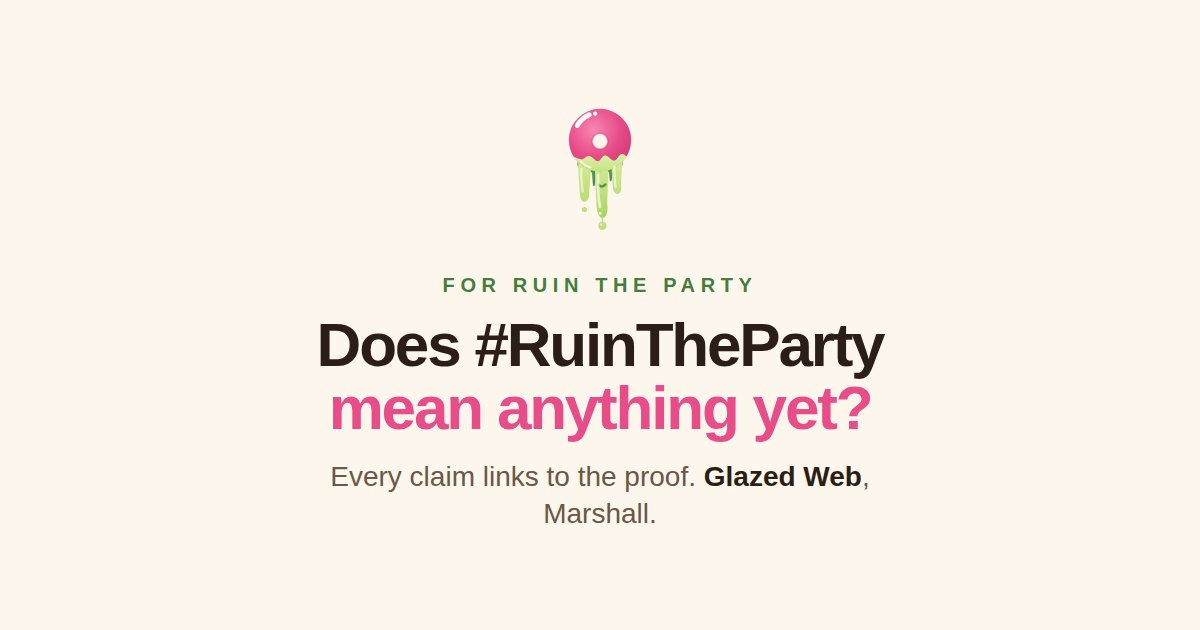
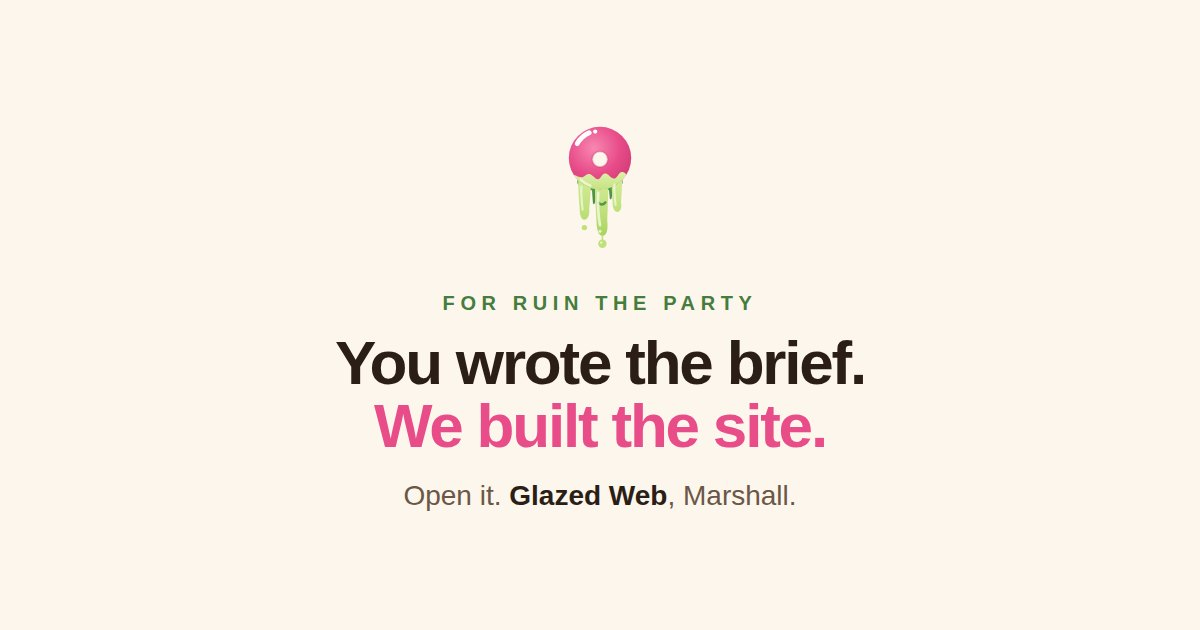
The letter is a reply to the brief, not a pitch
Kevin, 2026-10-01: "we have to sell him less in a way bc he came to us."
The first draft used the cold-prospect structure: a question hook whose
answer is no, an audit section, a struck market anchor beside the price,
and the three questions to ask any vendor. All of that came out.

What a client who sent a brief needs is here and nothing else: what we
checked before building (the domain, the hashtag, who already does this
work, the numbers, each linked, each stated as useful), what is in the
site, how it is owned, the store and the one decision it waits on, the
price with what it buys, and the one action. The h1 is now "You wrote
the brief. We built the site. Open it." and the share card says the
same. The rule is recorded in glazedweb's glaze/proposal.md.

Rendered again at 1280, 390 and 320: no overflow, no errors. Card 32KB.

Claude-Session: https://claude.ai/code/session_01T5x7rB4KF7dzEFYqyNu4PS

Changed region(s): [[0.2467, 0.4222, 0.74, 0.8444], [0.4625, 0.1508, 0.5242, 0.3921]]

diff --git a/public/pitch/ruintheparty/index.html b/public/pitch/ruintheparty/index.html
@@ -3,47 +3,52 @@
 <meta charset="UTF-8">
 <meta name="viewport" content="width=device-width,initial-scale=1">
 <meta name="robots" content="noindex,nofollow">
-<title>Glazed Web &times; Ruin the Party &middot; Proposal</title>
-<meta name="description" content="A website proposal for Ruin the Party. Every claim links to the evidence, and the site is already built.">
+<title>Glazed Web &times; Ruin the Party &middot; The site, built</title>
+<meta name="description" content="Ruin the Party as a working website: what is in it, how it runs, and what it costs to finish.">
 <meta property="og:type" content="website">
 <meta property="og:site_name" content="Glazed Web">
 <meta property="og:url" content="https://ruintheparty.glazedweb.com/">
-<meta property="og:title" content="Does #RuinTheParty mean anything yet?">
-<meta property="og:description" content="A website proposal for Ruin the Party, where every claim links to the proof.">
+<meta property="og:title" content="You wrote the brief. We built the site.">
+<meta property="og:description" content="Ruin the Party as a working website: what is in it, how it runs, and what it costs to finish.">
 <meta property="og:image" content="https://ruintheparty.glazedweb.com/pitch/ruintheparty/og.jpg">
 <meta property="og:image:width" content="1200">
 <meta property="og:image:height" content="630">
-<meta property="og:image:alt" content="Does #RuinTheParty mean anything yet? A proposal from Glazed Web.">
+<meta property="og:image:alt" content="You wrote the brief. We built the site. A letter from Glazed Web.">
 <meta name="twitter:card" content="summary_large_image">
-<meta name="twitter:title" content="Does #RuinTheParty mean anything yet?">
-<meta name="twitter:description" content="A website proposal for Ruin the Party, where every claim links to the proof.">
+<meta name="twitter:title" content="You wrote the brief. We built the site.">
+<meta name="twitter:description" content="Ruin the Party as a working website: what is in it, how it runs, and what it costs to finish.">
 <meta name="twitter:image" content="https://ruintheparty.glazedweb.com/pitch/ruintheparty/og.jpg">
 <meta name="theme-color" content="#FDF6EC">
 <!--
+  THE REGISTER OF THIS LETTER. He came to us. Kevin, 2026-10-01: "we have to
+  sell him less in a way bc he came to us." So this is a reply to a brief,
+  not a pitch: no question hook whose answer is no, no audit of a site he
+  does not have, no market anchor struck through beside the price, no
+  "three questions to ask any vendor". What stays is what he needs to
+  decide: what we checked, what is built, how it is owned, what it costs,
+  and the one action. The rule is recorded in glaze/proposal.md.
+
   KEVIN, BEFORE SENDING. Three things this letter could not check from the
   desk it was written at, because that sandbox has no outbound web except a
   search index:
-    1. Open ruintheparty.com in a browser. The letter says only that the name
-       answers to DNS and does not describe what is there. If it is a real
-       page, finding one changes.
+    1. Open ruintheparty.com. The letter says only that the name answers
+       to DNS and does not describe what is there.
     2. Open tiktok.com/tag/ruintheparty. The view count (about 253,000) and
-       the nature of the videos came from TikTok's own tag page as a search
+       the nature of the videos came from TikTok's tag page as a search
        index surfaced it on October 1, 2026, not from the page itself.
-    3. The price. $4,500 and $150 is a recommendation against the Griffin
-       Claw and Dark Horse shape and the published $8,000 floor it anchors
-       to. Prices are yours (AGENTS.md). The same numbers sit in
-       lib/customOrders.js; change both in one commit.
-  Also: nobody has named the person behind Ruin the Party. The agreement row
-  has their name, title, entity and town as placeholders, and the letter is
-  addressed to the brand rather than to a person for that reason.
+    3. The price. $4,500 and $150 is a recommendation. Prices are yours
+       (AGENTS.md). The same numbers sit in lib/customOrders.js; change
+       both in one commit.
+  Nobody has named the person behind Ruin the Party, so the letter is
+  addressed to the brand and the agreement row carries placeholders.
 -->
 <!--
   Icons are declared with ABSOLUTE paths and they are not optional. "/" and
   "/demo" are rewrites on this host, so a relative icon path resolves against
   the rewritten route and misses. Undeclared, the page falls back to
-  /favicon.ico at the origin root, and a Glazed sales document goes out
-  wearing the client's own mark. SVG first, .ico second: Safari will not take
-  an SVG through rel=icon.
+  /favicon.ico at the origin root, and a Glazed document goes out wearing
+  the client's own mark. SVG first, .ico second: Safari will not take an
+  SVG through rel=icon.
 -->
 <link rel="icon" href="/pitch/ruintheparty/favicon.svg" type="image/svg+xml">
 <link rel="icon" href="/pitch/ruintheparty/favicon.ico" sizes="32x32">
@@ -319,9 +324,8 @@ footer a{color:var(--green)}
   <span class="bstack"><span class="bw">glazed<span>web</span></span><span class="forname">for Ruin the Party</span></span>
  </a>
  <!-- One action in the bar (glaze/launch-page.md): the build page. The
-      agreement is a plain link, never a second pill. Both destinations ride
-      the hero row too, because the nav hides below 720px on a letter that
-      asks to be read on a phone. -->
+      agreement is a plain link, never a second pill. Both ride the hero
+      row too, because the nav hides below 720px. -->
  <nav>
   <a href="#cost">Cost</a><a href="#next">Next</a><a href="/demo">The site</a><a href="https://www.glazedweb.com/agreement/ruintheparty" target="_blank" rel="noopener">The agreement</a><a class="navcta" href="https://www.glazedweb.com/build/ruintheparty" target="_blank" rel="noopener">Launch &#8599;</a>
  </nav>
@@ -330,24 +334,24 @@ footer a{color:var(--green)}
 <main>
 <div class="hero" id="top"><div class="wrap">
  <svg class="gmark" viewBox="0 0 200 250" overflow="visible" aria-hidden="true"><g class="goo"><g fill="url(#gwDark)"><ellipse cx="100" cy="110" rx="38" ry="15"></ellipse><path class="wobB" d="M 86 100 C 86 116, 87 130, 88 142 C 88 148, 91 149, 92 142 C 93 130, 92 114, 92 100 Z"></path><path d="M 114 100 C 114 112, 115 124, 116 134 C 116 140, 119 141, 120 134 C 121 124, 120 110, 120 100 Z"></path></g><g fill="url(#gwLight)"><path class="wob1" d="M 64 100 C 63 120, 65 138, 66 152 C 66 164, 68 172, 74 173 C 80 172, 83 165, 82 154 C 84 136, 85 116, 86 100 Z"></path><path class="wob2" d="M 92 100 C 91 128, 93 152, 94 172 C 94 188, 97 199, 104 200 C 111 199, 114 190, 112 174 C 113 150, 114 124, 114 100 Z"></path><path class="wob3" d="M 120 100 C 119 116, 120 130, 121 142 C 121 152, 123 159, 129 160 C 134 159, 137 153, 135 144 C 136 130, 137 114, 137 100 Z"></path></g></g><path class="string" d="M 104 199 L 104 209" stroke="#BFE07A" stroke-width="2.5" stroke-linecap="round" fill="none"></path><g class="droplet"><circle cx="104" cy="213" r="7" fill="#BFE07A"></circle><circle cx="102" cy="211" r="2" fill="#F1F8DC" opacity="0.9"></circle></g><circle class="droplet2" cx="74" cy="186" r="4.5" fill="#BFE07A"></circle><circle cx="100" cy="70" r="52" fill="url(#gwPink)"></circle><path d="M 56 98 A 52 52 0 0 0 144 98 C 142 94, 138 92, 134 94 C 130 97, 129 102, 125 104 C 119 106, 116 98, 110 96 C 104 94, 103 102, 98 105 C 93 107, 90 100, 84 97 C 78 95, 76 100, 71 102 C 66 103, 62 100, 56 98 Z" fill="url(#gwCreep)"></path><path d="M 68 106 A 42 42 0 0 0 84 116" fill="none" stroke="#F1F8DC" stroke-width="4" stroke-linecap="round" opacity="0.85"></path><path d="M 97 144 Q 103 151 109 144" fill="none" stroke="#55974A" stroke-width="4" stroke-linecap="round"></path><g stroke="#F1F8DC" fill="none" stroke-linecap="round"><path d="M 97 128 C 96 148, 97 166, 100 182" stroke-width="4.5" opacity="0.85"></path><path d="M 69 118 C 68 132, 70 146, 71 156" stroke-width="3.5" opacity="0.8"></path><path d="M 124 114 C 123 124, 125 138, 126 148" stroke-width="3.5" opacity="0.8"></path></g><circle cx="100" cy="192" r="2.5" fill="#F1F8DC" opacity="0.9"></circle><circle cx="100" cy="72" r="13" fill="#FDF6EC"></circle><circle cx="100" cy="72" r="13" fill="none" stroke="#C22F6B" stroke-width="3" opacity="0.3"></circle><path d="M 62 46 A 44 44 0 0 1 82 28" fill="none" stroke="#FFFFFF" stroke-width="8" stroke-linecap="round"></path><circle cx="92" cy="26" r="3.5" fill="#FFFFFF"></circle></svg>
- <div class="k">Website proposal &middot; Ruin the Party</div>
- <h1>Does #RuinTheParty<br>mean anything yet?<br><em>Not yet.</em></h1>
- <p class="sub">You sent us a brief. We read it twice, built the site it describes, and then wrote down only what we could prove about the world that site is going into. Every claim below carries the link it came from, so you can check us.</p>
+ <div class="k">Ruin the Party &middot; the site, built</div>
+ <h1>You wrote the brief.<br>We built the site.<br><em>Open it.</em></h1>
+ <p class="sub">Your brief already knew what it wanted, so rather than describe a website back to you we built the one it describes: nine pages, the store, your mark, your words where they were already right. This letter is what we checked first, what is in it, how it is owned, and what it costs to finish and run.</p>
  <div class="forwho">
-  Prepared by <b>Kevin Hershock &middot; Glazed Web</b><br>
+  <b>Kevin Hershock &middot; Glazed Web</b><br>
   Marshall, Michigan &middot; October 2026<br>
-  <b>Every claim below links to the evidence.</b>
+  <b>Everything below is on the site already.</b>
  </div>
- <p class="herocta"><a href="/demo">See the site &#8599;</a><a class="ghost" href="https://www.glazedweb.com/build/ruintheparty" target="_blank" rel="noopener">Launch &#8599;</a><span>Built already, with your words in it: the phrase, the four moves, the eight situations, and the store. Open it on the phone in your pocket.</span></p>
+ <p class="herocta"><a href="/demo">See the site &#8599;</a><a class="ghost" href="https://www.glazedweb.com/build/ruintheparty" target="_blank" rel="noopener">Launch &#8599;</a><span>Open it on the phone in your pocket. Nothing in this letter is a mockup.</span></p>
 
  <div class="tldr">
   <div class="k">The short version</div>
   <ul>
-   <li><span class="n">01</span><span>The phrase is a decision, and today it lives in a brief. <b>Nowhere a seventeen-year-old can find it says what you mean by it.</b> The hashtag on TikTok is comedy about wrecking somebody's birthday.</span></li>
-   <li><span class="n">02</span><span>The people already doing this work are serious and institutional: student chapters on 500 campuses, a coaching program the CDC evaluated. <b>None of them is a phrase a kid would wear.</b> That is the gap, and it is yours.</span></li>
-   <li><span class="n">03</span><span>Your brief has one section that will carry the whole site, and you named it yourself: <b>Be the Guy.</b> We built it first. Eight situations, the words, the moves, and who to call.</span></li>
-   <li><span class="n">04</span><span>The store is built on <b>your own Stripe</b> and switched off until you price it. No platform bill, nobody taking a cut.</span></li>
-   <li><span class="n">05</span><span>The whole thing is live at <a class="cta" href="/demo">ruintheparty.glazedweb.com/demo</a>. Nothing in this letter is a mockup.</span></li>
+   <li><span class="n">01</span><span>The site is live at <a class="cta" href="/demo">ruintheparty.glazedweb.com/demo</a>, built from your brief and the logo you sent.</span></li>
+   <li><span class="n">02</span><span>You said <b>Be the Guy</b> could become the most important section. We agree, so it got built first and biggest: eight situations, the words, the moves, who to call.</span></li>
+   <li><span class="n">03</span><span>The store runs on <b>your own Stripe</b> and stays off until you price it. No platform bill, nobody taking a cut.</span></li>
+   <li><span class="n">04</span><span>Before building we checked the domain, the hashtag, and who is already doing this work. Section one, with the links.</span></li>
+   <li><span class="n">05</span><span><b>$4,500</b> to finish and launch it, <b>$150 a month</b> to run it, and you own all of it. Sections five and six.</span></li>
   </ul>
  </div>
 </div></div>
@@ -355,99 +359,68 @@ footer a{color:var(--green)}
 <section id="found" aria-labelledby="h-found"><div class="wrap">
  <div class="k">Section one</div>
  <div class="rule"></div>
- <h2 id="h-found">What we read.</h2>
+ <h2 id="h-found">What we checked first.</h2>
 
- <p>First, what this is not. It is not a critique of the idea. Your brief is the clearest one we have been sent: a phrase that is a decision rather than a slogan, a message aimed at the men who are not the problem, and three jobs for the website in the right order, educate, empower, spread. Most of what follows in section three is your words, because they were already right.</p>
-
- <p>What follows here is what the web does to that idea on day one. It was read out of the world on <strong>October 1, 2026</strong>, and anything we could not open ourselves is marked that way rather than dressed up.</p>
+ <p>Four things, read out of the world on <strong>October 1, 2026</strong>, each with the link so you can check us. Two of them we could not open from the desk this was written at, and they say so.</p>
 
  <div class="claim">
-  <h4>The name is held, and that is all we can say about it</h4>
-  <p>ruintheparty.com answers to DNS, so somebody registered it, which is the right first move. What the address shows a visitor today we could not open from the desk this was written at, so this letter does not describe it. Open it yourself and you will know in one tap whether there is a site there or a registrar's parking page. Either way, nothing at that address today says what Ruin the Party means.</p>
+  <h4>The name is held</h4>
+  <p>ruintheparty.com answers to DNS, so somebody registered it, which is the right first move. What the address shows today we could not open ourselves, so this letter does not describe it. When the site goes live, it goes there.</p>
   <a class="verify" href="https://ruintheparty.com/" target="_blank" rel="noopener">ruintheparty.com &#8599;</a>
  </div>
 
  <div class="claim">
-  <h4>The hashtag already has an audience, and it is laughing at something else</h4>
-  <p>TikTok's own tag page for <span class="mono">#ruintheparty</span> counts roughly <strong>253,000 views</strong>. The videos are comedy: somebody wrecking a birthday, a wedding, a kid's party. That is not a problem. It is the audience the phrase has to take over, and right now nothing on that page, and nothing anywhere else, tells those viewers what you mean by it. The site is what the first person who asks gets sent to.</p>
+  <h4>The hashtag already has an audience</h4>
+  <p>TikTok's tag page for <span class="mono">#ruintheparty</span> counts roughly <strong>253,000 views</strong>, and the videos are comedy: somebody wrecking a birthday or a wedding. Worth knowing, not a problem. It is the crowd the phrase gets to take over, and the site is what the first person who asks what it means gets sent to.</p>
   <a class="verify" href="https://www.tiktok.com/tag/ruintheparty" target="_blank" rel="noopener">The tag on TikTok &#8599;</a>
  </div>
 
  <div class="claim">
-  <h4>The field is full of institutions, not phrases</h4>
-  <p>It's On Us, started in 2014 out of the White House task force on campus sexual assault, has run more than 6,000 programs through student chapters on more than 500 campuses, and 440,000 people have signed its pledge. Coaching Boys Into Men gives a coach twelve fifteen-minute talks to have with his team across a season, and a three-year evaluation paid for by the CDC found the athletes who went through it were significantly more likely to step in. Green Dot taught a generation of colleges the three ways to intervene. Every one of them speaks in the voice of a university or a nonprofit, which is exactly what your brief says this must not sound like. None of them is on a hat.</p>
-  <p>So the site does not compete with them. It points at them, by name, on the pages for coaches and for parents, and it does the one thing they do not: give a nineteen-year-old a phrase he would say out loud.</p>
-  <a class="verify" href="https://itsonus.org/about/mission-impact/" target="_blank" rel="noopener">It's On Us, their numbers &#8599;</a>
+  <h4>Good people are already doing this work, and the site points at them</h4>
+  <p>It's On Us has student chapters on more than 500 campuses. Coaching Boys Into Men gives a coach twelve fifteen-minute talks to have with his team over a season, and a CDC-funded evaluation found the athletes who went through it were more likely to step in. Green Dot taught a generation of colleges the three ways to intervene. All of it speaks in the voice of a university or a nonprofit, which your brief says this must not. So the site does not compete with any of it. It names them on the pages for coaches and parents, and it does the one thing they do not: give a nineteen-year-old a phrase he would say out loud.</p>
+  <a class="verify" href="https://itsonus.org/about/mission-impact/" target="_blank" rel="noopener">It's On Us &#8599;</a>
   <a class="verify" href="https://coachescorner.org/" target="_blank" rel="noopener">Coaching Boys Into Men &#8599;</a>
   <a class="verify" href="https://alteristic.org/services/green-dot/" target="_blank" rel="noopener">Green Dot &#8599;</a>
  </div>
 
  <div class="claim">
-  <h4>The numbers, so the site never has to shout them</h4>
-  <p>RAINN's campus page, reporting the 2019 survey of American universities: <strong>13 percent</strong> of undergraduates experienced rape or sexual assault after enrolling. <strong>One in four</strong> undergraduate women and <strong>one in fourteen</strong> undergraduate men experienced nonconsensual sexual contact by force or while unable to consent. Those three figures appear on the site exactly once, with that link under them, and nowhere else. A site that shouts statistics at a nineteen-year-old is the corporate seminar your brief says not to build.</p>
+  <h4>The numbers, used once</h4>
+  <p>RAINN's campus page, from the 2019 survey of American universities: <strong>13 percent</strong> of undergraduates experienced rape or sexual assault after enrolling, <strong>one in four</strong> undergraduate women and <strong>one in fourteen</strong> undergraduate men. Those three figures are on the site exactly once, with that link under them, and nowhere else. Your brief said not to build a seminar, and a site that shouts statistics at a nineteen-year-old is one.</p>
   <a class="verify" href="https://rainn.org/facts-statistics-the-scope-of-the-problem/statistics-campus-sexual-violence/" target="_blank" rel="noopener">RAINN's campus statistics &#8599;</a>
  </div>
 
- <div class="claim">
-  <h4>Your brief had already written the two strongest pages</h4>
-  <p><span class="mono">"No" is a complete sentence. It doesn't matter when no is said.</span> That is a page, and it is on the site in letters the height of a phone screen, with the five moments under it exactly as you listed them. And <strong>Be the Guy</strong>, which you said could become the most important section on the site. You were right, so it got built first and biggest: eight situations a young man actually ends up in, what to say in each, what to do, when to hand it to a bouncer, a coach, an RA or the police, and what to do the next day.</p>
-  <a class="verify" href="/demo/know-the-line">Know the line &#8599;</a>
-  <a class="verify" href="/demo/be-the-guy">Be the guy &#8599;</a>
+ <div class="verdict">
+  <p><b>One decision we made that you can overrule.</b></p>
+  <p>Your brief says the merchandise should not feel like nonprofit merchandise, and it is right. We took that one step further: a shirt that says Ruin the Party only means something if the person who asks what it means can be sent somewhere that answers in thirty seconds, in words he would use. So the site is built as that answer, and the shop is built as the way the question gets asked. Every page a shirt could send somebody to answers in one screen.</p>
  </div>
-
- <div class="gap">
-  <p class="big">The real one is that a phrase cannot stand on a merch store.</p>
-  <p>Your brief says the merchandise should not feel like nonprofit merchandise,
-  and it is right. But a shirt that says Ruin the Party only means something if
-  the person who asks what it means can be sent somewhere that answers in
-  thirty seconds, in words he would use himself. That is the whole job of the
-  website. The shop is how the question gets asked. The site is the answer.
-  Build the store without the answer and you have a streetwear brand with a
-  hashtag. Build the answer without the store and you have a pamphlet.</p>
- </div>
-
- <p class="note">How this was done, and what was not done. The brief was read,
- the site was built from it, and the claims above were checked against the
- organizations' own pages and RAINN's on October 1, 2026, each with the link
- that proves it. Two of them, the domain and the TikTok tag, we could not open
- ourselves and say so where they appear. No speed test was run on anything of
- yours, because there is nothing of yours to run one on yet.</p>
 </div></section>
 
 <section id="matters" aria-labelledby="h-matters"><div class="wrap">
  <div class="k">Section two</div>
  <div class="rule"></div>
- <h2 id="h-matters">The part that matters most.</h2>
+ <h2 id="h-matters">How it is built, and what you own.</h2>
 
- <h3>Two jobs that pull against each other</h3>
- <p>The site has to be a store young men would actually buy from, and it has to be the reason the shirt means anything. Most movements end up with one of the two: a nonprofit site with a merch tab bolted on, or a storefront with an About page nobody reads. We built one site where the phrase does the heavy lifting in both places. The hashtag is the hero of every page and the chest of every shirt, and every page a shirt could send somebody to answers in one screen, in the voice of your brief rather than the voice of a training module.</p>
-
- <h3>You own it. All of it.</h3>
- <p>Written down, not implied. When the build fee is paid in full, these are yours: the design, the source code, every word on it, the accounts, the code repository, the hosting project, and every login to them. The domain stays registered in your name and transfers to any registrar you name, free, whenever you ask. After launch it is month to month, thirty days' notice, no penalty, and the site keeps working on the way out the door. The terms are one plain-English page published at <a href="https://www.glazedweb.com/agreement" target="_blank" rel="noopener">glazedweb.com/agreement</a>, the same page every client gets.</p>
- <p>Nothing underneath the site is rented. No store platform, no page builder, no form service, no plugin bill arriving in a year. <strong>If a feature can be written instead of rented, we write it.</strong> The one exception is Stripe, because somebody has to take the card: its fee is published, it is charged to your account, and it is the only line on any bill that is not ours.</p>
-
- <h3>Three questions worth asking any web vendor, including us</h3>
- <p><strong>1.</strong> If we stop paying you, what do we keep? <strong>2.</strong> Whose name is the domain registered in? <strong>3.</strong> Can we leave in thirty days? Our answers are everything, yours, and yes. Ask us the same three in person and hold us to them.</p>
+ <p>When the build fee is paid in full, these are yours: the design, the source code, every word on it, the accounts, the code repository, the hosting project, and every login to them. The domain stays registered in your name and transfers to any registrar you name, free, whenever you ask. After launch it is month to month, thirty days' notice, no penalty, and the site keeps working on the way out the door. The terms are one plain-English page at <a href="https://www.glazedweb.com/agreement" target="_blank" rel="noopener">glazedweb.com/agreement</a>, the same page every client gets.</p>
+ <p>Nothing underneath the site is rented. No store platform, no page builder, no form service, no plugin bill arriving in a year. The one exception is Stripe, because somebody has to take the card: its fee is published, it is charged to your account, and it is the only line on any bill that is not ours.</p>
 </div></section>
 
 <section id="build" aria-labelledby="h-build"><div class="wrap">
  <div class="k">Section three</div>
  <div class="rule"></div>
- <h2 id="h-build">What we built.</h2>
- <p>Not a description of a website. We built it, so the rest of this section is mostly a list of what to open.</p>
+ <h2 id="h-build">What is in it.</h2>
 
  <div class="demo">
   <div class="k">Open it now</div>
-  <h3>The site is built, and it is your brief inside it.</h3>
+  <h3>Your brief, as a site.</h3>
   <p>Nine pages, the store, the forms, your mark lifted from the file you sent
   rather than redrawn, and your words wherever they were already right.</p>
   <a href="/demo">ruintheparty.glazedweb.com/demo &#8599;</a>
   <p class="fine">A working site, not a finished one. Where a fact has never
   been given to us, the page says so rather than inventing it, and the list of
-  those is below.</p>
+  those is at the end of this section.</p>
  </div>
 
- <p><strong>Home.</strong> <a href="/demo">Your opening, word for word</a>: Be the man who ruins the party, and the four lines under it. Then the decision in one sentence, the five situations that each end the same way, the four moves from your boards, and "No" is a complete sentence. The mark arrives in two pieces, the words first and the hash a beat later, which is the only motion on the page and it is your logo doing it.</p>
+ <p><strong>Home.</strong> <a href="/demo">Your opening, word for word</a>: Be the man who ruins the party, and the four lines under it. Then the decision in one sentence, the five situations that each end the same way, the four moves from your boards, and "No" is a complete sentence. The mark arrives in two pieces, the words first and the hash a beat later. It is the only motion on the page, and it is your logo doing it.</p>
 
  <p><strong>What it means.</strong> <a href="/demo/what-it-means">The story and the philosophy</a>, in your words: the list that was handed to women for generations, what Ruin the Party asks of men instead, the core message, and who it is for. The three numbers live here, once.</p>
 
@@ -455,21 +428,21 @@ footer a{color:var(--green)}
 
  <p><strong>Be the guy.</strong> <a href="/demo/be-the-guy">Eight situations</a>. Your friend taking home someone who can barely stand. Your friend still pushing after she said no. A stranger walking a very drunk girl out the door. The group chat. The joke. Being called dramatic. Getting her out. And the one your brief ends on, what to say when someone tells you it happened to them. Each one: what to say, what to do, when to get somebody with authority, and the next day.</p>
 
- <p><strong>Parents.</strong> <a href="/demo/parents">Your nine topics</a>, in your order, each with the first sentence a parent could actually say in a car. Consent, respect, sex, pornography and expectations, alcohol, peer pressure, relationships, masculinity, speaking up.</p>
+ <p><strong>Parents.</strong> <a href="/demo/parents">Your nine topics</a>, in your order, each with the first sentence a parent could actually say in a car.</p>
 
- <p><strong>Teams.</strong> <a href="/demo/teams">A four-minute locker-room talk</a> a coach can give before a party weekend, the season program that has evidence behind it, and a form that asks coaches and schools what they need, because the materials you want organizations to hand to young men are not written yet, and what they ask for should decide what gets written first.</p>
+ <p><strong>Teams.</strong> <a href="/demo/teams">A four-minute locker-room talk</a> a coach can give before a party weekend, the season program that has evidence behind it, and a form that asks coaches and schools what they need. The materials you want organizations to hand to young men are not written yet, and what they ask for should decide what gets written first.</p>
 
- <p><strong>Resources.</strong> <a href="/demo/resources">Six lines that answer</a>, 911 first, each number and address read off the organization's own site, and six organizations with what each one is for. The page says in its first paragraph that Ruin the Party is educational and is not a replacement for emergency services, law enforcement, medical care or professional crisis support, and the footer of every page says it again.</p>
+ <p><strong>Resources.</strong> <a href="/demo/resources">Six lines that answer</a>, 911 first, each number read off the organization's own site, and six organizations with what each one is for. The page says in its first paragraph that Ruin the Party is educational and is not a replacement for emergency services, law enforcement, medical care or professional crisis support, and the footer of every page says it again.</p>
 
  <p><strong>Shop.</strong> <a href="/demo/shop">Five products</a> with your mark on them, real sizes, and a buy button that goes to Stripe. Section four.</p>
 
  <ul class="proof">
-  <li><b>Zero accessibility violations on every page</b>, measured at 320, 390, 768 and 1440 pixels wide, not glanced at. Text contrast is computed per color pair; the teal is never allowed to be text on a light ground, because it fails there.</li>
-  <li><b>Works with JavaScript off.</b> The menu, the contact form, the buy button and every link. A form that fails quietly on a bad connection at a party is the one form that cannot fail quietly.</li>
-  <li><b>141KB of JavaScript, total.</b> Under the 150KB line we hold every build to. Most of that is the framework; the site itself is a few kilobytes.</li>
-  <li><b>Every page has its own title and description.</b> The share card for the site is yours, black, with your mark on it.</li>
+  <li><b>Zero accessibility violations on every page</b>, measured at 320, 390, 768 and 1440 pixels wide. Text contrast is computed per color pair; the teal is never text on a light ground, because it fails there.</li>
+  <li><b>Works with JavaScript off.</b> The menu, the contact form, the buy button and every link.</li>
+  <li><b>141KB of JavaScript, total.</b> Under the 150KB line we hold every build to.</li>
+  <li><b>Every page has its own title, description and share card.</b> The site's card is yours, black, with your mark on it.</li>
   <li><b>The mark is your file.</b> The brush logo on every page is the image you sent with the black keyed out, not a redraw. The icon in the browser tab is the hash cut from it.</li>
-  <li><b>Nothing rented underneath.</b> Fonts are downloaded once at build time and served from your own address. No form service, no store platform, no analytics anybody pays for.</li>
+  <li><b>Nothing rented underneath.</b> Fonts are downloaded once at build time and served from your own address.</li>
  </ul>
 
  <p class="note">What is provisional, said here rather than discovered later. The
@@ -485,28 +458,25 @@ footer a{color:var(--green)}
 <section id="sell" aria-labelledby="h-sell"><div class="wrap">
  <div class="k">Section four</div>
  <div class="rule"></div>
- <h2 id="h-sell">The part that can take money.</h2>
+ <h2 id="h-sell">The store.</h2>
 
- <h3>The store runs on your own Stripe</h3>
- <p>The buy button on every product goes to a checkout page hosted by Stripe, on your Stripe account, not ours. Prices resolve on the server from one file, so a tampered order cannot invent one. Sizes are real choices. The money settles to the bank account you name, on Stripe's schedule, at Stripe's published rate, and that rate is the only cost on the store that is not in this letter.</p>
+ <p>The buy button on every product goes to a checkout page hosted by Stripe, on your Stripe account, not ours. Prices resolve on the server from one file, so a tampered order cannot invent one. The money settles to the bank account you name, on Stripe's schedule, at Stripe's published rate.</p>
  <p>It is off today, behind a single setting, because a buy button put in front of a visitor promises a store nobody has stocked. <strong>Nothing can be charged on the site as it stands.</strong> Press Buy and it tells you so, in those words.</p>
 
  <div class="demo demo--left">
-  <div class="k">What we would rather scope with you than guess at</div>
+  <div class="k">The one thing to decide before it switches on</div>
   <h3>Who prints it, and who ships it.</h3>
-  <p><strong>Two ways this works.</strong> You hold stock and ship it yourself, in which case the site tells you an order came in and you put it in a box. Or a print-on-demand service makes and ships each piece and takes its cut, in which case the site hands the order across and you never touch a box. The site is built for either; the price of the build does not move; the agreement names which one.</p>
-  <p><strong>What decides it</strong> is how many you expect to sell in the first year, and we have no idea. Neither do you yet. That is the first conversation to have, and it is a short one.</p>
+  <p><strong>Two ways this works.</strong> You hold stock and ship it yourself, in which case the site tells you an order came in and you put it in a box. Or a print-on-demand service makes and ships each piece and takes its cut, in which case the site hands the order across and you never touch a box. The site is built for either, the price of the build does not move, and the agreement names which one.</p>
+  <p><strong>What decides it</strong> is how many you expect to sell in the first year, and neither of us knows yet. It is a short conversation.</p>
   <p><strong>Prices.</strong> The five on the demo are placeholders so the shop reads as a shop. Yours go in one file, and the page stops calling them samples the day you set them.</p>
-</div>
+ </div>
 
- <p class="verdict"><strong>What it costs to run.</strong> Stripe's rate is Stripe's, published on their site and charged to your account; we do not touch it and we do not mark it up. On top of that there is <strong>nothing</strong>: no percentage of the ticket, no per-order fee, no platform subscription. A store that sells forty shirts a year should not cost more to run than a store that sells four thousand, and on this one it does not.</p>
+ <p class="verdict"><strong>What it costs to run.</strong> Stripe's rate is Stripe's, charged to your account; we do not touch it and we do not mark it up. On top of that there is nothing: no percentage of the ticket, no per-order fee, no platform subscription.</p>
 
- <p class="note">The brief says the merchandise should feel like something young
- men actually want to wear. We agree, and we are a website studio, not a
- clothing label. The products on the demo are our best reading of your boards.
- The shirts themselves, the blanks, the print method and the patch on the hat
- are decisions you will make with whoever prints them, and the site will show
- whatever you decide.</p>
+ <p class="note">We are a website studio, not a clothing label. The products on
+ the demo are our best reading of your boards. The blanks, the print method and
+ the patch on the hat are decisions you will make with whoever prints them, and
+ the site will show whatever you decide.</p>
 </div></section>
 
 <section id="cost" aria-labelledby="h-cost"><div class="wrap">
@@ -514,15 +484,14 @@ footer a{color:var(--green)}
  <div class="rule"></div>
  <h2 id="h-cost">What it costs.</h2>
 
- <p>This is a Custom Order, because it is a store and a nine-page site for a movement rather than a flavor off the menu. The number is a number, not a starting point.</p>
- <p class="anchor">A published 2026 range for a nonprofit website from a full-service agency runs <s>$8,000</s> to $25,000. This is the bottom of that range, and then some.<br><a class="verify loose" href="https://vincecomfort.com/cost-of-a-nonprofit-website-in-2026/" target="_blank" rel="noopener">The published range &#8599;</a></p>
+ <p>A store and a nine-page site is a Custom Order rather than a flavor off our menu, so this is the number for this build.</p>
 
  <div class="pricebox">
   <div><div class="n">$4,500</div><div class="l">The build, once. Everything in sections three and four, finished and launched on ruintheparty.com, with the store switched on against your Stripe. Half to start, half at launch, and you own all of it from the day the balance clears.</div></div>
-  <div><div class="n">$150<span class="per">/mo</span></div><div class="l">Hosting, SSL, security updates, backups, domain renewal where we hold it, the Stripe webhook that tells you an order landed, and edits. A new product, a new scenario, a changed number on the resources page? Send a text.</div></div>
+  <div><div class="n">$150<span class="per">/mo</span></div><div class="l">Hosting, SSL, security updates, backups, domain renewal where we hold it, the Stripe order notifications, and edits. A new product, a new scenario, a changed number on the resources page? Send a text.</div></div>
  </div>
 
- <p>That is <strong>$6,300</strong> across the first twelve months, then <strong>$1,800 a year</strong>, and <strong>$11,700</strong> over five years. The store is inside it. So are both forms, the resources page, the search and share setup, and the nine pages. There is no platform fee and no plugin bill underneath it.</p>
+ <p>That is <strong>$6,300</strong> across the first twelve months, then <strong>$1,800 a year</strong>. The store, both forms, the resources page, the search and share setup and the nine pages are inside it. There is no platform fee and no plugin bill underneath it.</p>
 
  <ul class="proof">
   <li><b>Month to month after launch.</b> Thirty days' notice, no early termination penalty, and you leave with the whole site working.</li>
@@ -534,14 +503,14 @@ footer a{color:var(--green)}
 <section id="next" aria-labelledby="h-next"><div class="wrap">
  <div class="k">Section six</div>
  <div class="rule"></div>
- <h2 id="h-next">What happens next.</h2>
+ <h2 id="h-next">If you want to go ahead.</h2>
 
- <div class="step"><div class="no">1</div><div><h4>Launch</h4><p>Everything from here lives on one page, yours: <a href="https://www.glazedweb.com/build/ruintheparty" target="_blank" rel="noopener">glazedweb.com/build/ruintheparty</a>. Where things stand, the short list of what only you can supply, what happens in what order, and where your stuff is. We keep it current as things land, so if a circle is still open there, we have not received it yet. Nothing to schedule and nothing to remember; the page remembers.</p></div></div>
+ <div class="step"><div class="no">1</div><div><h4>Launch</h4><p>Everything from here lives on one page, yours: <a href="https://www.glazedweb.com/build/ruintheparty" target="_blank" rel="noopener">glazedweb.com/build/ruintheparty</a>. Where things stand, the short list of what only you can supply, what happens in what order, and where your stuff is. We keep it current as things land, so if a circle is still open there, we have not received it yet.</p></div></div>
 
  <div class="step"><div class="no">2</div><div><h4>Accept the agreement</h4><p>It is already written and it is waiting at <a href="https://www.glazedweb.com/agreement/ruintheparty" target="_blank" rel="noopener">glazedweb.com/agreement/ruintheparty</a>. Two documents: the plain-English terms every client gets, and an Exhibit A carrying your scope and your numbers. You type your name and both of us get the signed record by email. The build fee is paid on the same page by card, in full or half now and half at launch, or we invoice it; the monthly begins once the site is live on ruintheparty.com, and not before.</p></div></div>
 
  <h3>What we would need from you</h3>
- <p>Nine things, none of them long, and every one of them is on your build page with the reason it is needed, in the order they block other work. Your name and the registered name of whatever Ruin the Party is come first, because the agreement waits on them and nothing else does. The list lives there and not here on purpose: one copy, ticked as it arrives, so it can never say two different things.</p>
+ <p>Nine things, none of them long, and every one of them is on your build page with the reason it is needed, in the order they block other work. Your name and the registered name of whatever Ruin the Party is come first, because the agreement waits on them and nothing else does.</p>
 
  <div class="demo">
   <div class="k">The one thing to do</div>
@@ -550,8 +519,8 @@ footer a{color:var(--green)}
   <a class="cta" href="https://www.glazedweb.com/build/ruintheparty" target="_blank" rel="noopener">Launch &#8599;</a>
  </div>
 
- <p class="note">Written by Kevin Hershock, who lives in Marshall, Michigan.
- Glazed Web builds and looks after websites by hand, one at a time.</p>
+ <p class="note">Questions, or something in here you read differently: reply to
+ the message this came in, or call. Kevin Hershock, Marshall, Michigan.</p>
 </div></section>
 </main>
 

diff --git a/public/pitch/ruintheparty/og-card.html b/public/pitch/ruintheparty/og-card.html
@@ -20,7 +20,7 @@ h1 em{font-style:normal;color:var(--pink)}
 <div class="card">
   <svg class="mark" viewBox="0 0 200 250" overflow="visible" aria-hidden="true"><defs><linearGradient id="dgGrad" x1="0" y1="92" x2="0" y2="165" gradientUnits="userSpaceOnUse"><stop offset="0%" stop-color="#5FA850"></stop><stop offset="100%" stop-color="#43813A"></stop></linearGradient><linearGradient id="lgGrad" x1="0" y1="92" x2="0" y2="215" gradientUnits="userSpaceOnUse"><stop offset="0%" stop-color="#D9EDA0"></stop><stop offset="55%" stop-color="#BFE07A"></stop><stop offset="100%" stop-color="#A3CE55"></stop></linearGradient><radialGradient id="pinkGrad" cx="40%" cy="34%" r="75%"><stop offset="0%" stop-color="#F887B2"></stop><stop offset="55%" stop-color="#E84D8A"></stop><stop offset="100%" stop-color="#CE3672"></stop></radialGradient><linearGradient id="creepGrad" x1="0" y1="90" x2="0" y2="124" gradientUnits="userSpaceOnUse"><stop offset="0%" stop-color="#E3F2B0"></stop><stop offset="100%" stop-color="#C3E181"></stop></linearGradient></defs><g class="goo"><g fill="url(#dgGrad)"><ellipse cx="100" cy="110" rx="38" ry="15"></ellipse><path d="M 86 100 C 86 116, 87 130, 88 142 C 88 148, 91 149, 92 142 C 93 130, 92 114, 92 100 Z"></path><path d="M 114 100 C 114 112, 115 124, 116 134 C 116 140, 119 141, 120 134 C 121 124, 120 110, 120 100 Z"></path></g><g fill="url(#lgGrad)"><path d="M 64 100 C 63 120, 65 138, 66 152 C 66 164, 68 172, 74 173 C 80 172, 83 165, 82 154 C 84 136, 85 116, 86 100 Z"></path><path d="M 92 100 C 91 128, 93 152, 94 172 C 94 188, 97 199, 104 200 C 111 199, 114 190, 112 174 C 113 150, 114 124, 114 100 Z"></path><path d="M 120 100 C 119 116, 120 130, 121 142 C 121 152, 123 159, 129 160 C 134 159, 137 153, 135 144 C 136 130, 137 114, 137 100 Z"></path></g></g><path d="M 104 199 L 104 209" stroke="#BFE07A" stroke-width="2.5" stroke-linecap="round" fill="none"></path><g><circle cx="104" cy="213" r="7" fill="#BFE07A"></circle><circle cx="102" cy="211" r="2" fill="#F1F8DC" opacity="0.9"></circle></g><circle cx="74" cy="186" r="4.5" fill="#BFE07A"></circle><circle cx="100" cy="70" r="52" fill="url(#pinkGrad)"></circle><path d="M 56 98 A 52 52 0 0 0 144 98 C 142 94, 138 92, 134 94 C 130 97, 129 102, 125 104 C 119 106, 116 98, 110 96 C 104 94, 103 102, 98 105 C 93 107, 90 100, 84 97 C 78 95, 76 100, 71 102 C 66 103, 62 100, 56 98 Z" fill="url(#creepGrad)"></path><path d="M 68 106 A 42 42 0 0 0 84 116" fill="none" stroke="#F1F8DC" stroke-width="4" stroke-linecap="round" opacity="0.85"></path><path d="M 97 144 Q 103 151 109 144" fill="none" stroke="#55974A" stroke-width="4" stroke-linecap="round"></path><g stroke="#F1F8DC" fill="none" stroke-linecap="round"><path d="M 97 128 C 96 148, 97 166, 100 182" stroke-width="4.5" opacity="0.85"></path><path d="M 69 118 C 68 132, 70 146, 71 156" stroke-width="3.5" opacity="0.8"></path><path d="M 124 114 C 123 124, 125 138, 126 148" stroke-width="3.5" opacity="0.8"></path></g><circle cx="100" cy="192" r="2.5" fill="#F1F8DC" opacity="0.9"></circle><circle cx="100" cy="72" r="13" fill="#FDF6EC"></circle><circle cx="100" cy="72" r="13" fill="none" stroke="#C22F6B" stroke-width="3" opacity="0.3"></circle><path d="M 62 46 A 44 44 0 0 1 82 28" fill="none" stroke="#FFFFFF" stroke-width="8" stroke-linecap="round"></path><circle cx="92" cy="26" r="3.5" fill="#FFFFFF"></circle></svg>
   <div class="k">For Ruin the Party</div>
-  <h1>Does #RuinTheParty<br><em>mean anything yet?</em></h1>
-  <p class="sub">Every claim links to the proof. <b>Glazed Web</b>, Marshall.</p>
+  <h1>You wrote the brief.<br><em>We built the site.</em></h1>
+  <p class="sub">Open it. <b>Glazed Web</b>, Marshall.</p>
 </div>
 </body></html>
